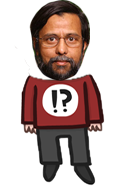
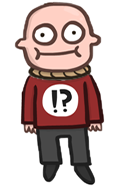
chore(images): update images for better quality

Changed region(s): [[0.12, 0.0, 0.816, 0.4545]]

diff --git a/src/ui/gallows.rs b/src/ui/gallows.rs
@@ -16,7 +16,7 @@ use gpui_kit::*;
 /// PNG. It is still the original opaque `pole.jpg`: swap the filename (and
 /// `jpeg` for `png`) once `pole.png` lands and nothing else has to change.
 static GALLOWS: LazyLock<Arc<Image>> =
-    LazyLock::new(|| jpeg(include_bytes!("../../assets/images/pole.jpg")));
+    LazyLock::new(|| png(include_bytes!("../../assets/images/pole.png")));
 
 /// The six victim frames, in the order the original showed them.
 static STAGES: LazyLock<[Arc<Image>; 6]> = LazyLock::new(|| {
@@ -75,10 +75,6 @@ pub fn gallows(stage: usize) -> impl IntoElement {
 /// cache, keyed on their content hash.
 fn embedded(format: ImageFormat, bytes: &[u8]) -> Arc<Image> {
     Arc::new(Image::from_bytes(format, bytes.to_vec()))
-}
-
-fn jpeg(bytes: &[u8]) -> Arc<Image> {
-    embedded(ImageFormat::Jpeg, bytes)
 }
 
 fn png(bytes: &[u8]) -> Arc<Image> {
